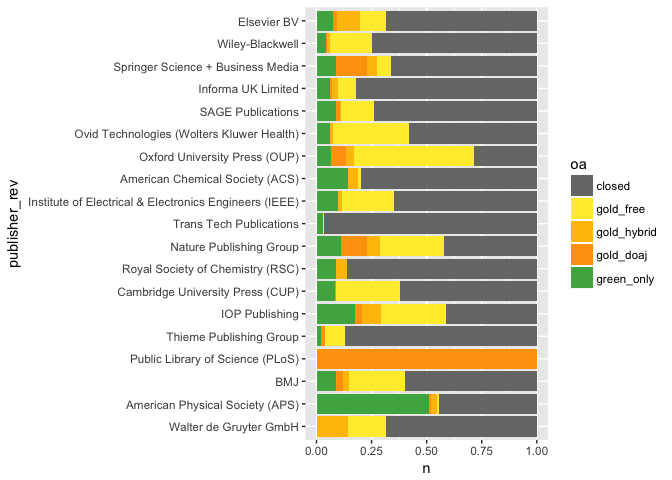
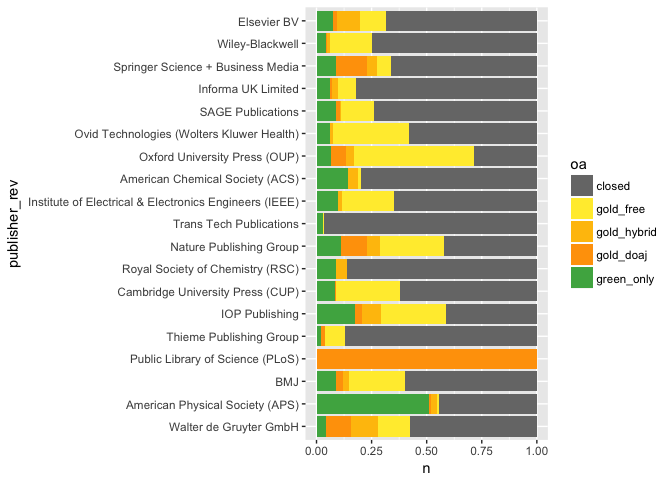
updated

Changed region(s): [[0.4688, 0.8438, 0.625, 0.9375]]

diff --git a/oa_analysis.md b/oa_analysis.md
@@ -6,11 +6,6 @@ many
 
 Results outline so far: - How accurate is our OA detection (from Juan, modified to use hybrid analysis) - How much OA is there? - How is open access changing over time? - How do OA patterns vary across publishers? - Which repositories contribute most to OA availability? - How do OA patterns vary by discipline? - How much OA is there in most highly-accessed papers? - Do different types of OA have different citation patterns?
 
-\# How accurate is our OA detection
-===================================
-
-put juan's stuff here.
-
 \# How much OA is there?
 ========================
 
@@ -28,6 +23,19 @@ articles_all %>% count(oa) %>% mutate(proportion=n/sum(n))
     ## 5  green_only  4816 0.0482347639
     ## 6          NA    29 0.0002904502
 
+``` r
+kable(articles_all %>% count(oa) %>% mutate(percent=round(100*n/sum(n),1)))
+```
+
+| oa           |      n|  percent|
+|:-------------|------:|--------:|
+| closed       |  72029|     72.1|
+| gold\_free   |  16202|     16.2|
+| gold\_hybrid |   3586|      3.6|
+| gold\_doaj   |   3183|      3.2|
+| green\_only  |   4816|      4.8|
+| NA           |     29|      0.0|
+
 Category definitions:
 
 -   *closed*: We could not find a free fulltext copy.
@@ -37,7 +45,7 @@ Category definitions:
 -   *green\_only*: The article is Green OA. We couldn't find any free copy on the publisher page, but we did find one in a repository. Note: this category is for copies that are *only* available in the repository, nowhere else.
 -   *NA*: Processing error of som kind...we'll fix these before publication
 
-So, about 28% of the DOI-assigned literature is available to read. Given that we’re sampling from 66,560,153 total journal articles with a Crossref DOI, that means we can estimate there are *at least* 66560153 \* 0.279 = 18570283 free-to-read articles (18.6 million) with Crossref DOIs.
+So, about 28% of the DOI-assigned literature is available to read. Given that there are 66,560,153 total journal articles with a Crossref DOI (from <http://api.crossref.org/works?filter=type:journal-article>), that means we can estimate there are *at least* 66560153 \* 0.279 = 18570283 free-to-read articles (18.6 million) with Crossref DOIs.
 
 But we know that in recent years OA has been gaining steam, so let's let's look more closely at OA over time.
 
@@ -57,32 +65,34 @@ articles_all %>% group_by(year <= 2017 & year >= 1500) %>% summarise(n())
     ## 2                          TRUE 99411
     ## 3                            NA   430
 
-It seems the year data is pretty good, with less than 0.1% missing or obviously wrong years. We don't really want to look at data since 1500, so let's see what's a reasonable window to examine. We'll try 1990 because it's comfortably before the "modern era" of open access.
+It seems the year data is pretty good, with less than 0.1% missing or obviously wrong years. We don't really want to look at data since 1500, so let's see what's a reasonable window to examine. We'll try 1950 because it's well before the "modern era" of open access.
 
 ``` r
 # subset by time
-articles_all = articles_all %>% mutate(is_modern = year >= 1990 & year <= 2017)
-articles_all %>% filter(is_modern) %>%
+articles_all %>% filter(year >= 1950 & year <= 2017) %>%
     ggplot(aes(x=year)) + geom_bar(width=1) 
 ```
 
 ![](oa_analysis_files/figure-markdown_github/unnamed-chunk-3-1.png)
 
-Unsurprisingly, we do not yet have enough data from 2017 to plot. More surprisingly, 2016 seems to be missing some data as well. Publishers can be slow to deposit information with Crossref, and this is likely the cause. So, we'll remove 2017 and 2016 from our timeseries subset.
+The DOI sample was taken in early 2017, so unsurprisingly, we do not yet have enough DOIs from 2017 to plot. More surprisingly, 2016 seems to be underrepresented as well. Publishers can be slow to deposit information with Crossref, and this is likely the cause. So, we'll remove 2017 and 2016 from our timeseries subset.
+
+Here's the version from 1950-2015:
 
 ``` r
-articles_all = articles_all %>% mutate(is_modern = year >= 1990 & year <= 2015)
+articles_all = articles_all %>% mutate(is_modern = year >= 1950 & year <= 2015)
+
 articles_all %>% count(is_modern) %>% mutate(proportion = n / sum(n))
 ```
 
     ## # A tibble: 3 × 3
     ##   is_modern     n  proportion
     ##       <lgl> <int>       <dbl>
-    ## 1     FALSE 34559 0.346126496
-    ## 2      TRUE 64856 0.649566829
+    ## 1     FALSE 10691 0.107075968
+    ## 2      TRUE 88724 0.888617357
     ## 3        NA   430 0.004306675
 
-This subset will still cover nearly two thirds of all DOIs ever, while letting us zoom in on the years of interest.
+This modern subset will 89% of all DOIs ever, while letting us zoom in on the years of interest.
 
 We'll start with plotting absolute numbers of OA articles:
 
@@ -120,22 +130,19 @@ articles_recent$publisher = fct_infreq(articles_recent$publisher)
 publishers = articles_recent %>% count(publisher) %>%
   ungroup()
 
-# the top 25 publishers publish 80% of articles.
-# top 100 publshers publish 87% of articles.
-sum(publishers$n[0:100]) /sum(publishers$n)
+# the top 20 publishers publish 82% of articles.
+sum(publishers$n[0:82]) /sum(publishers$n)
 ```
 
-    ## [1] 0.8346847
+    ## [1] 0.8194016
 
 ``` r
-#publishers %>% slice(1:25) %>% ggplot(aes(x=publisher, y=n)) + geom_bar(stat="identity") + coord_flip()
-
 publishers_oa = articles_recent %>% 
   count(publisher, oa) %>%
   ungroup()
 
 
-publishers_oa %>% slice(1:80) %>% mutate(publisher_rev=fct_rev(publisher)) %>% ggplot(aes(x=publisher_rev, y=n, fill=oa)) + 
+publishers_oa %>% slice(1:82) %>% mutate(publisher_rev=fct_rev(publisher)) %>% ggplot(aes(x=publisher_rev, y=n, fill=oa)) + 
   geom_bar(stat="identity") + 
   coord_flip() +
   oa_color_map
@@ -146,7 +153,7 @@ publishers_oa %>% slice(1:80) %>% mutate(publisher_rev=fct_rev(publisher)) %>% g
 ``` r
 #same thing but by % oa
 
-publishers_oa %>% slice(1:80) %>% mutate(publisher_rev=fct_rev(publisher)) %>% ggplot(aes(x=publisher_rev, y=n, fill=oa)) + 
+publishers_oa %>% slice(1:82) %>% mutate(publisher_rev=fct_rev(publisher)) %>% ggplot(aes(x=publisher_rev, y=n, fill=oa)) + 
   geom_bar(stat="identity", position="fill") + 
   coord_flip() +
   oa_color_map
@@ -175,9 +182,7 @@ articles_all$repo[grepl('.edu', articles_all$best_open_url)] = ".edu"
 repo_ordered_levels = c("PMC", "arXiv", ".edu", "other")
 articles_all = mutate(articles_all, repo=factor(repo, levels=repo_ordered_levels))
 
-repo_color_map = scale_fill_manual(values=c("purple", "blue", "dark blue", "black"))
-
-articles_all %>% filter(is_modern) %>% filter(!is.na(repo)) %>% ggplot(aes(x=year, fill=repo)) + geom_bar(width=1) + repo_color_map
+articles_all %>% filter(is_modern) %>% filter(!is.na(repo)) %>% ggplot(aes(x=year, fill=repo)) + geom_bar(width=1) + scale_fill_brewer(palette="Set3")
 ```
 
 ![](oa_analysis_files/figure-markdown_github/unnamed-chunk-8-1.png)
@@ -185,16 +190,27 @@ articles_all %>% filter(is_modern) %>% filter(!is.na(repo)) %>% ggplot(aes(x=yea
 It apprears that multi-year embargoes maybe affecting PMC, since the number of articles shows a surprising drop in the last few years. However despite this, we see that PMC remains by far the most significant green repository, particularly for papers published in the last decade.
 
 ``` r
-articles_all %>% filter(year > 2009, oa=="green_only") %>% count(repo) %>% mutate(proportion=n/sum(n))
+articles_all %>% filter(is_modern, oa=="green_only") %>% count(repo) %>% mutate(proportion=n/sum(n))
 ```
 
     ## # A tibble: 4 × 3
     ##     repo     n proportion
     ##   <fctr> <int>      <dbl>
-    ## 1    PMC   757  0.3940656
-    ## 2  arXiv   373  0.1941697
-    ## 3   .edu   268  0.1395107
-    ## 4  other   523  0.2722540
+    ## 1    PMC  1315  0.3103611
+    ## 2  arXiv   651  0.1536464
+    ## 3   .edu  1161  0.2740146
+    ## 4  other  1110  0.2619778
+
+``` r
+kable(articles_all %>% filter(is_modern, oa=="green_only") %>% count(repo) %>% mutate(percent=round(100*n/sum(n),1)))
+```
+
+| repo  |     n|  percent|
+|:------|-----:|--------:|
+| PMC   |  1315|     31.0|
+| arXiv |   651|     15.4|
+| .edu  |  1161|     27.4|
+| other |  1110|     26.2|
 
 That said, smaller repositories are still making a significant contribution to Green OA, particularly in recent years. for articles published since 2009, the contribute about as much as PMC (42%).
 
@@ -226,69 +242,45 @@ found_green_freq_by_year %>% ggplot(aes(x=year, y=perc, fill=found_green)) + geo
 What are the most common licenses for open-access papers?
 
 ``` r
-articles_all %>% filter(is_modern) %>% filter(grepl('cc', license)) %>% ggplot(aes(x=year, fill=license)) + geom_bar(width=1, position="fill") 
+articles_all %>% filter(year >= 2009 & year <= 2015) %>% filter(grepl('cc', license)) %>% ggplot(aes(x=year, fill=license)) + geom_bar(width=1, position="fill") + scale_fill_brewer(palette="Set3")
 ```
 
-![](oa_analysis_files/figure-markdown_github/unnamed-chunk-12-1.png) It looks like there has been steady growth in the number of articles licensed with the CC-BY license, largely at the expense of the CC-BY-NC license.
+![](oa_analysis_files/figure-markdown_github/unnamed-chunk-12-1.png)
 
-Let's also look at CC licenses by type of OA
-
-``` r
-# articles_all %>% filter(is_modern) %>% filter(oa != "closed", oa != "free") %>% ggplot(aes(x=oa,  fill=license)) + geom_bar(width=1, position="fill") 
-```
-
-Most repositories do not note the license of the work, so green\_only is surely an undercount. It's interesting to see that DOAJ journals are more likely to use the more permissive CC-BY license. This graph needs different colors, so that license=NA is shown as gray.
-
-\# By discipline
-================
-
-TBD
+It looks like there has been steady growth in the number of articles licensed with the CC-BY license, largely at the expense of the CC-BY-NC license.
 
 \# How much OA is there for most-accessed papers?
 =================================================
 
-DOIs accessed through Unpaywall on April 20, 2017. 50k accesses, 30k unique DOIs, 9k unique IP addresses. (we will fix the plots so the two types of gold are beside each other) This analysis is using the 30k DOIs.
-
-To write: - describe unpaywall - describe userbase of unpaywall - the number of calls to the api - percent of dois with more than one accesses - number of unique IP addresses - DOI based analysis - we'll include one or two of these graphs, not sure which yet - for the most viewed articles, the OA story is better, and getting even better
+DOIs accessed through Unpaywall during the week of XXX XX accesses, XXX unique DOIs, XXXX unique IP addresses. Selected random accesses until had 100k distinct DOIs
 
 NOTE THIS GOES UP TO 2017, SEEMS RELEVANT
 
 ``` r
 articles_accessed_raw <- read.csv("export_study_dois_unpaywall_accesses.csv")
-articles_accessed = articles_accessed_raw
+articles_accessed = articles_accessed_raw 
 articles_accessed = mutate(articles_accessed, oa=factor(oa_color_long, levels=oa_ordered_levels))
-
+articles_accessed = articles_accessed %>% filter(!is.na(oa))
 # how much oa
-articles_accessed %>% count(oa) %>% mutate(proportion=n/sum(n))
+kable(articles_accessed %>% count(oa) %>% mutate(percent=round(100*n/sum(n),1)))
 ```
 
-    ## # A tibble: 6 × 3
-    ##            oa     n   proportion
-    ##        <fctr> <int>        <dbl>
-    ## 1      closed 55944 0.5295370432
-    ## 2   gold_free 16136 0.1527350516
-    ## 3 gold_hybrid  8789 0.0831921399
-    ## 4   gold_doaj 15085 0.1427868278
-    ## 5  green_only  9661 0.0914460420
-    ## 6          NA    32 0.0003028955
+| oa           |      n|  percent|
+|:-------------|------:|--------:|
+| closed       |  55944|     53.0|
+| gold\_free   |  16136|     15.3|
+| gold\_hybrid |   8789|      8.3|
+| gold\_doaj   |  15085|     14.3|
+| green\_only  |   9661|      9.1|
 
 ``` r
-articles_accessed %>% ggplot(aes(x="", fill=oa)) + geom_bar() + oa_color_map
+articles_accessed %>% filter(!is.na(oa)) %>% ggplot(aes(x="", fill=oa)) + 
+  geom_bar(position="fill", width=0.2) + 
+  coord_flip() +
+  oa_color_map 
 ```
 
-![](oa_analysis_files/figure-markdown_github/unnamed-chunk-14-1.png)
-
-``` r
-articles_accessed = articles_accessed %>% mutate(is_modern = year >= 1990 & year <= 2017)
-articles_accessed %>% count(is_modern) %>% mutate(proportion = n / sum(n))
-```
-
-    ## # A tibble: 3 × 3
-    ##   is_modern      n proportion
-    ##       <lgl>  <int>      <dbl>
-    ## 1     FALSE   3610  0.0341704
-    ## 2      TRUE 100936  0.9554081
-    ## 3        NA   1101  0.0104215
+![](oa_analysis_files/figure-markdown_github/unnamed-chunk-13-1.png)
 
 \# OA and citation patterns
 ===========================
